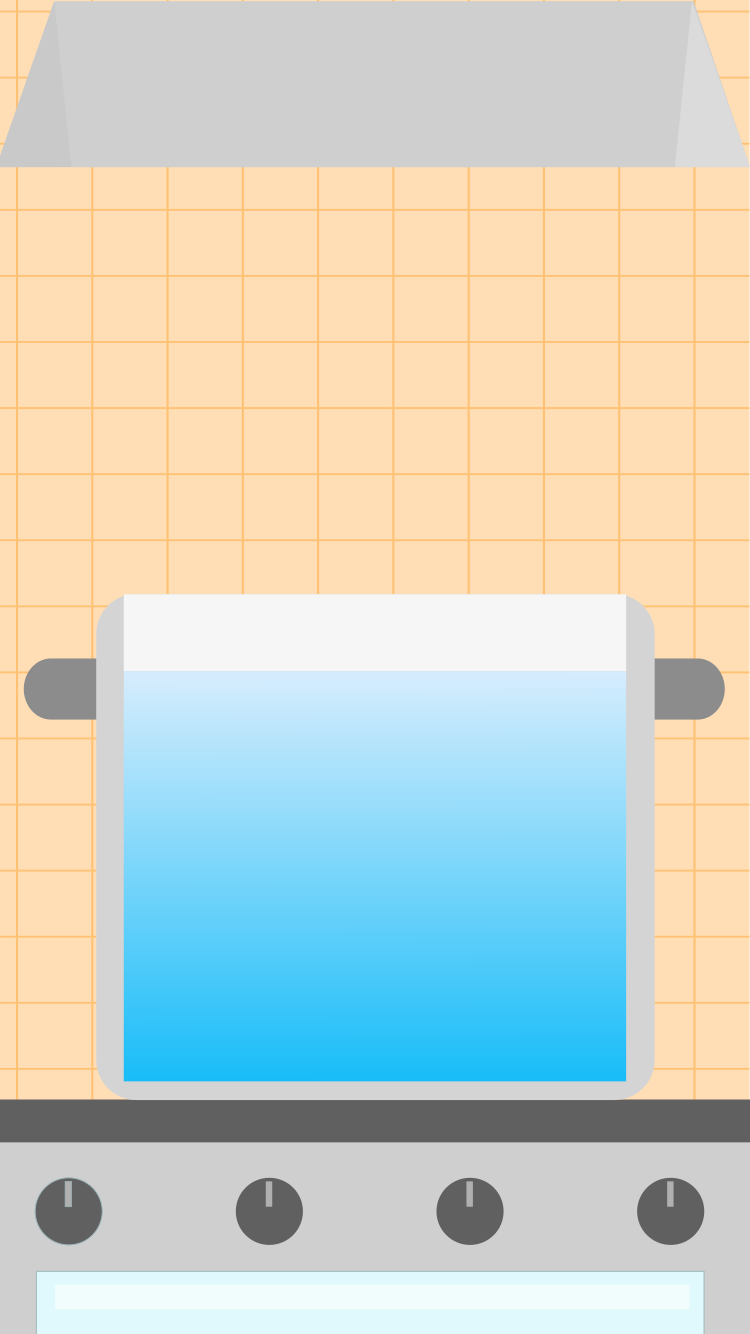
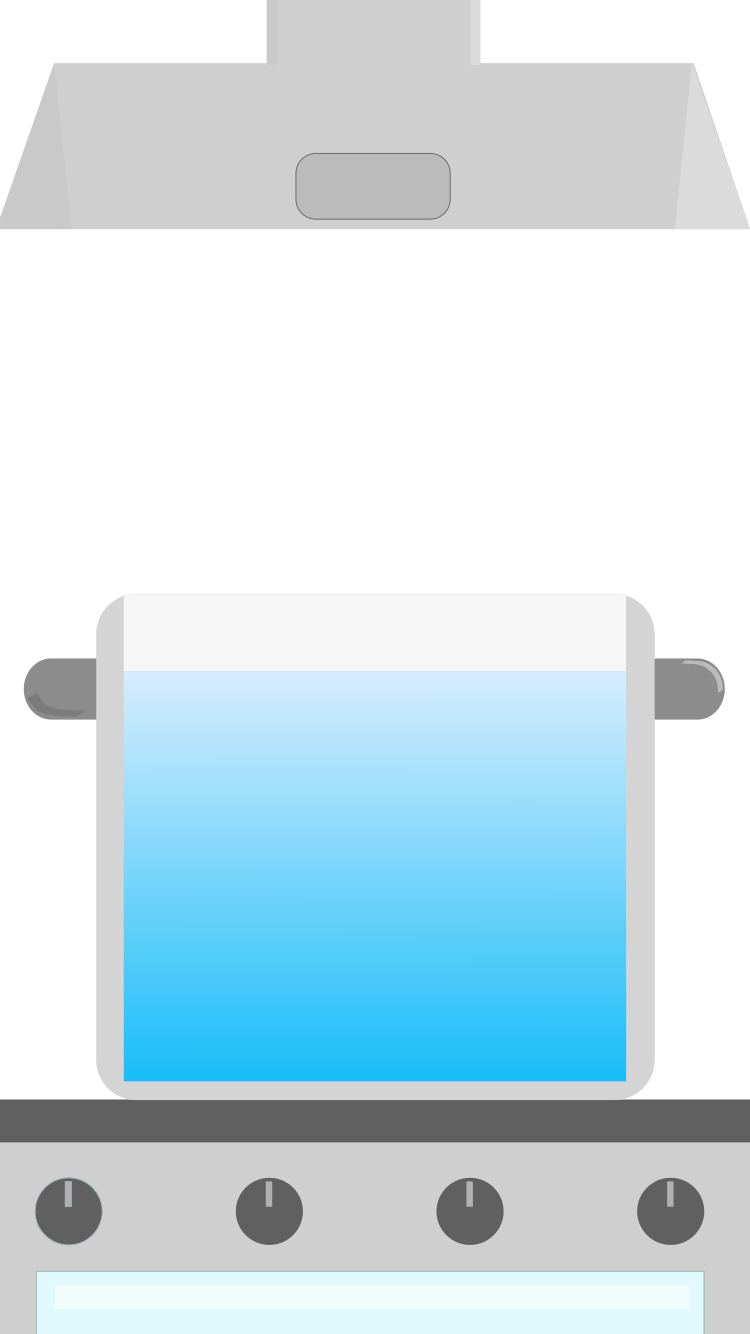
Tutorial level

diff --git a/week156 noodle/mainScene.js b/week156 noodle/mainScene.js
@@ -4,12 +4,20 @@ class MainScene extends Phaser.Scene {
     }
     
     create() {
+
+        this.labelScene = this.scene.get('LabelScene');
+
+        this.gameState = {
+            levelStarted: false,
+            levelStartTime: 0,
+        }
+
         this.loadingText = this.add.text(30, 30, 'Started game...').setFontFamily('Arial').setFontSize(32).setColor('#ffffff');
 
         this.matter.world.setBounds(120, 636, 508, 445, 26, true, true, false, true);
         this.matter.world.setGravity(0,0.1)
 
-        this.matter.world.pause();
+        
 
         this.startImage = this.add.image(this.cameras.main.width/2, this.cameras.main.height/2, 'kitchen');
 
@@ -21,21 +29,13 @@ class MainScene extends Phaser.Scene {
 
         this.noodle.setInteractive();
 
-        this.noodle.on('pointerdown', () => { this.startGame();}, this);
+        this.noodle.on('pointerdown', this.noodleEvent, this);
 
-        // this.noodle = this.add.image(400, 300, 'noodle');
-        // // this.noodle = this.add.rectangle(300,200,40,40, "#ff00ff", 1)
 
-        // this.physics.add.existing(this.noodle, false);
+        this.clock = this.add.text(315, 162).setFontFamily('Arial').setFontSize(48).setColor('#ffffff');
 
-        this.noodle.angle = 35;
-        this.noodle.setVelocity(0, 1);
-        this.noodle.setBounce(0.3, 0.3);
-
-        this.clock = this.add.text(32, 32).setFontFamily('Arial').setFontSize(48).setColor('#000000');
-        this.clockTime = 0;
-
-        this.clock.setText("Hey");
+        this.resetLevel();
+        
 
         // this.noodle.body.setCollideWorldBounds(true);
         // // this.noodle.body.setBoundsRectangle(new Phaser.Geom.Rectangle(160, 508, 430, 325));
@@ -50,11 +50,52 @@ class MainScene extends Phaser.Scene {
         
     }
 
-    startGame() {
+    resetLevel() {
 
-        this.matter.world.resume();
+        this.noodle.visible = false;
 
-        this.timedEvent = this.time.addEvent({ delay: 1000, callback: this.onEvent, callbackScope: this, loop: true });
+        this.noodle.y = 500;
+
+        this.noodle.angle = 35;
+        this.noodle.setVelocity(0, 1);
+        this.noodle.setBounce(0.3, 0.3);
+
+        this.clockTime = 0;
+        this.scene.pause();
+        this.clock.setText("00:00");
+        this.gameState.levelStarted = false;
+
+        this.level1();
+    }
+
+    noodleEvent() {
+        if(this.gameState.levelStarted) {
+            this.endLevel();
+        } 
+    }
+
+    endLevel() {
+        this.scene.pause();
+        console.log(this.clockRealTimeEvent.getElapsed())
+    }
+
+    startLevel() {
+
+        console.log(this.scene.scene.time.now)
+
+        this.gameState.levelStarted = true;
+
+        this.noodle.visible = true;
+
+        this.scene.resume()
+
+        this.clockRealTimeEvent = this.time.addEvent({ delay: 100000, loop: true });
+
+
+
+        this.clockTimeEvent = this.time.addEvent({ delay: 1000, callback: this.onEvent, callbackScope: this, loop: true });
+
+        
 
         var particles = this.add.particles('bubble');
 
@@ -68,18 +109,53 @@ class MainScene extends Phaser.Scene {
             gravityY: 0,
             scale: { start: 0.2, end: 2 },
             alpha: { start: 0.4, end: 0 },
-            quantity: 2,
+            quantity: 13,
             blendMode: 'ADD',
             emitZone: { type: 'random', source: new Phaser.Geom.Rectangle(140, 1058, 470, 25) },
         }); 
+
+        emitter.depth = 100;
+    }
+
+    addBrocolli() {
+        
+        const brocolli = this.add.image(Phaser.Math.Between(300, 600), 400, 'brocolli');
+
+        var arrow = '0 49 4 18 76 0 107 28 105 61 72 76 59 94 45 94';
+        this.matter.add.gameObject(brocolli, { shape: { type: 'fromVerts', verts: arrow, flagInternal: true } });
+
+        brocolli.alpha = 0.6
+        brocolli.angle = 35;
+        brocolli.setVelocity(0, 1);
+        brocolli.setAngularVelocity(0.1);
+        brocolli.setBounce(0.3, 0.3);
+        
+        // const brocolli = this.matter.add.image(400, 300, 'brocolli');
+
+        // brocolli.angle = 35;
+        // brocolli.setVelocity(0, 1);
+        // brocolli.setBounce(0.3, 0.3);
+    }
+
+    addTimeDouble() {
+        
+        const timedouble = this.add.image(500, 185, 'timedouble');
+
+        this.clockTimeEvent.timeScale = 2;
+        
+        // const brocolli = this.matter.add.image(400, 300, 'brocolli');
+
+        // brocolli.angle = 35;
+        // brocolli.setVelocity(0, 1);
+        // brocolli.setBounce(0.3, 0.3);
     }
 
     onEvent() {
         this.clockTime += 1;
 
-        if(this.clockTime > 5) {
-            this.timedEvent.timeScale = 2;
-        }
+        // if(this.clockTime > 5) {
+        //     this.timedEvent.timeScale = 2;
+        // }
 
         var m = Math.floor(this.clockTime % 3600 / 60);
         var s = Math.floor(this.clockTime % 3600 % 60);
@@ -87,6 +163,30 @@ class MainScene extends Phaser.Scene {
 
 
         this.clock.setText(`${m < 10 ? "0" + m : m }:${s < 10 ? "0" + s : s }`);
+    }
+
+
+    level1() {
+        this.gameState.level = {
+            endTime: 14000,
+            cookTimeText: "Cook for 00:20"
+        }
+
+        this.labelScene.showTextBox("Welcome to the tutorial level!\nYour goal here is to cook the noodles for 20 seconds. Click this box to start.", () => {this.startLevel()})
+
+        this.time.addEvent({ delay: 4000, callback: () => { this.scene.pause(); this.labelScene.showTextBox("Above you can see a clock that (usually) show how much time has passed. Click here to to continue", () => {this.scene.resume()}) }, callbackScope: this, loop: false });
+
+        this.time.addEvent({ delay: 7000, callback: this.addBrocolli, callbackScope: this, loop: false });
+        
+        this.time.addEvent({ delay: 10000, callback: () => { this.scene.pause(); this.labelScene.showTextBox("Oh no, evil forces have added a brocolli. Each vegetable will add 3 seconds to the cook timer so now the noodles will need 20 + 3 seconds to finish!", () => {this.scene.resume()}) }, callbackScope: this, loop: false });
+
+        this.time.addEvent({ delay: 15000, callback: () => { this.addTimeDouble(); this.scene.pause(); this.labelScene.showTextBox("What's this? The time bandits have sped up the clock so it moves twice as fast so from this point on 2 seconds on the clock is 1 second in real life. Oh my!", () => {this.scene.resume()}) }, callbackScope: this, loop: false });
+
+        this.time.addEvent({ delay: 21000, callback: () => { this.scene.pause(); this.labelScene.showTextBox("Noodles should be ready in about 2 seconds. To finish the level click the noodles and you will be scored on how close you were to the target cook time.", () => {this.scene.resume()}) }, callbackScope: this, loop: false });
+
+
+        // this.time.addEvent({ delay: 3000, callback: this.addBrocolli, callbackScope: this, loop: false });
+        // this.time.addEvent({ delay: 4000, callback: this.addBrocolli, callbackScope: this, loop: false });
     }
 
 

diff --git a/week156 noodle/startScene.js b/week156 noodle/startScene.js
@@ -10,26 +10,60 @@ class StartScene extends Phaser.Scene {
         this.load.image('kitchen', 'kitchen.png');
         this.load.image('noodle', 'noodle.png');
         this.load.image('bubble', 'bubble.png');
+        this.load.image('brocolli', 'brocolli.png');
+        this.load.image('timedouble', 'timedouble.png');
 
-        // this.load.audio('theme', [
-        //     'assets/09.ogg',
-        //     'assets/09.mp3'
-        // ]);
-
-        this.startNormalGameButton = this.add.rectangle(100,100,300,300, "#ffffff", 1)
-        this.startNormalGameButton.setInteractive();
-        this.startNormalGameButton.on('pointerdown', () => {this.startGame(false)}, this);
-
+        
     }
 
     create() {
         
         this.loadingText.visible = false;
+
+        this.startNormalGameButton = this.add.rectangle(100,100,300,300, "#ffffff", 1)
+        this.startNormalGameButton.setInteractive();
+        this.startNormalGameButton.on('pointerdown', () => {this.startGame(false)}, this);
     }
+
+
 
     startGame() {
+        
+
+        const labelScene = this.scene.launch('LabelScene');
         this.scene.start('MainScene');
+
+        
     }
 
 
+}
+
+class LabelScene extends Phaser.Scene {
+    constructor() {
+        super({ key: 'LabelScene' });
+    }
+
+    create() {
+        
+        
+        
+    }
+
+    showTextBox(text, callBack) {
+
+        var container = this.add.container(120, 260);
+
+        var background = this.add.rectangle(0,0,510,300, "#000000", 0.5).setOrigin(0)
+        
+        const textBox = this.add.text(255, 150, text, { fontFamily: 'Arial', color: '#ffffff', wordWrap: { width: 490 }, fontSize: '30px', align: 'center' }).setOrigin(0.5);
+
+        background.setInteractive();
+
+        container.add(background);
+        container.add(textBox);
+        
+
+        background.on('pointerdown', () => {container.destroy(); callBack()}, this);
+    }
 }

diff --git a/week156 noodle/index.html b/week156 noodle/index.html
@@ -12,15 +12,15 @@
 
 </head>
 
-<body style="margin: 0; background-color: #67B2C7">
+<body style="margin: 0; background-image: url(bg.png);">
     <div id="content"></div>
 
     <script>
         var config = {
             parent: 'content',
-            backgroundColor: 0x67B2C7,
             width: 750,
             height: 1334,
+            transparent: true,
             scale: {
                 mode: Phaser.Scale.FIT,
                 autoCenter: Phaser.Scale.CENTER_BOTH
@@ -35,7 +35,8 @@
             autoRound: false,
             scene: [
                 StartScene,
-                MainScene
+                MainScene,
+                LabelScene
             ]
         };
 
